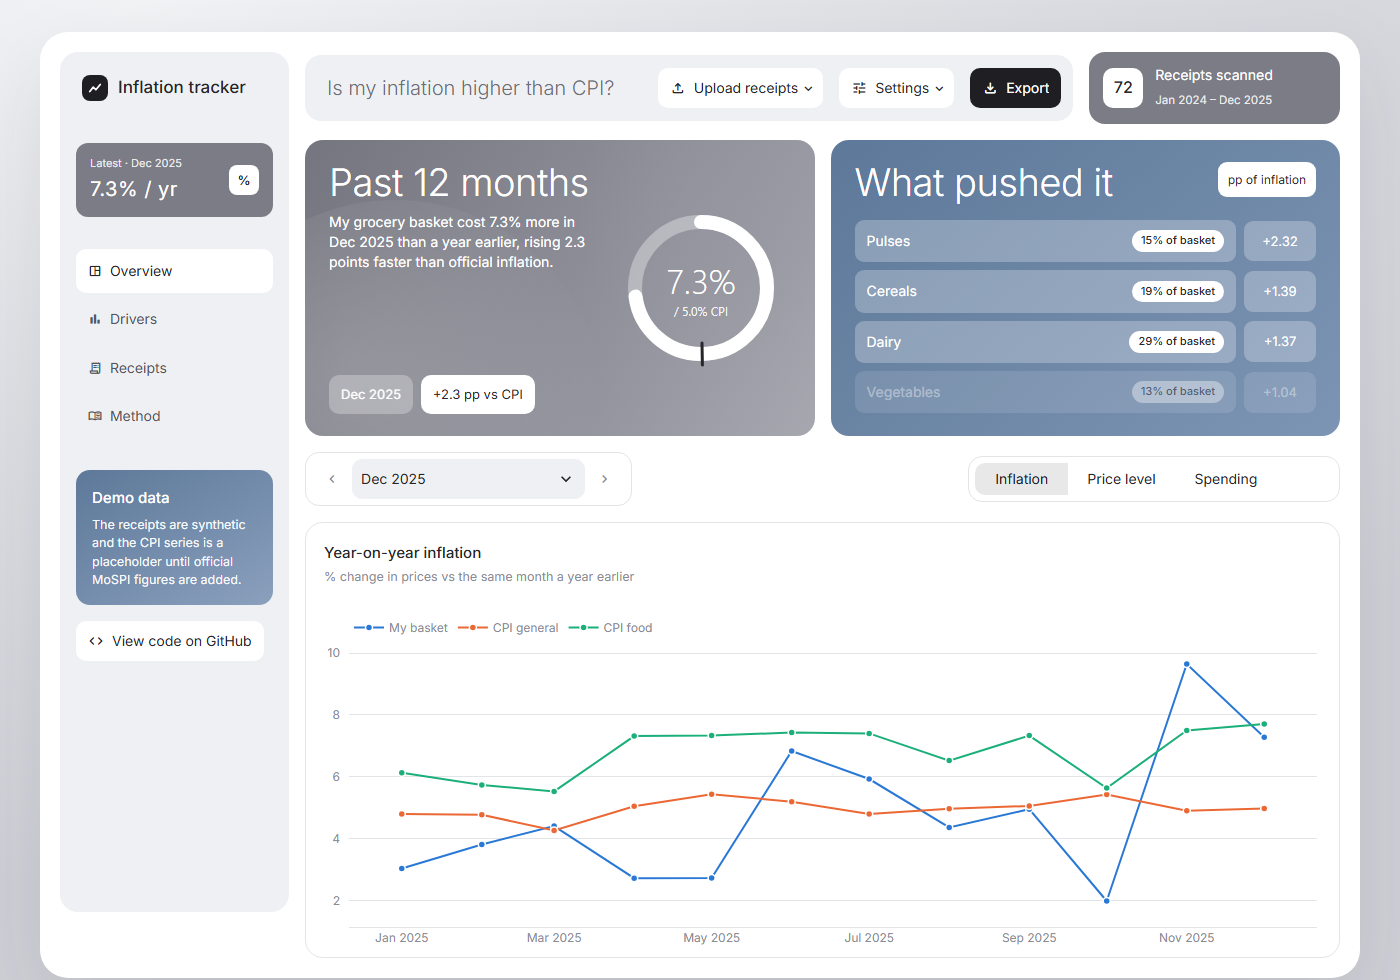
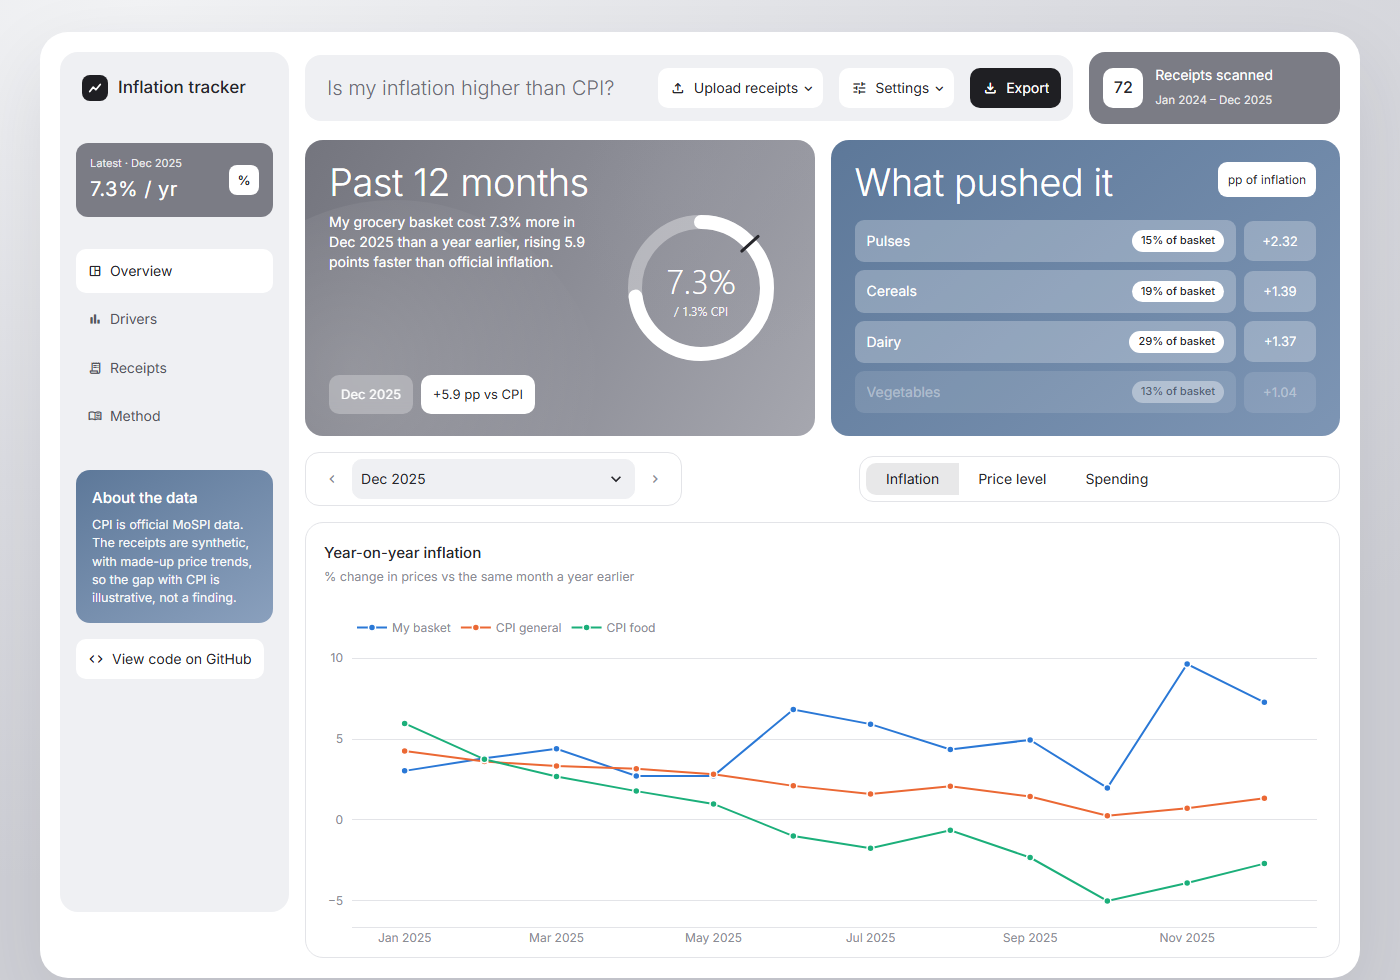
Use official MoSPI CPI data instead of placeholder
- data/cpi.csv: All-India CPI, Combined, base 2012=100, Jan 2024 to
  Dec 2025 (final), from the MoSPI API. cpi_food is the Consumer Food
  Price Index. YoY matches MoSPI's published inflation within 0.004 pp.
- App and README now state that the receipts are synthetic with made-up
  price trends, so the gap with CPI is illustrative, not a finding
- Regenerated charts and README screenshot

diff --git a/app.py b/app.py
@@ -167,8 +167,8 @@ with nav_col:
         page = st.radio("Pages", list(pages), key="page", label_visibility="collapsed",
                         format_func=lambda p: f"{pages[p]}&nbsp;&nbsp;{p}")
         with st.container(key="navnote", gap="small"):
-            st.html('<div class="note"><h4>Demo data</h4><p>The receipts are synthetic and the CPI series is a '
-                    'placeholder until official MoSPI figures are added.</p></div>')
+            st.html('<div class="note"><h4>About the data</h4><p>CPI is official MoSPI data. The receipts are '
+                    'synthetic, with made-up price trends, so the gap with CPI is illustrative, not a finding.</p></div>')
             st.link_button("View code on GitHub", REPO, icon=":material/code:")
 
 with main:
@@ -197,8 +197,9 @@ with main:
             with st.popover("Settings", icon=":material/tune:"):
                 st.slider("Base period (months)", 6, 12, 12, key="base_months",
                           help="Spending in these first months sets the basket weights.")
-                st.file_uploader("Official CPI file (month, cpi_general, cpi_food)", type="csv", key="cpi_file")
-                st.caption("Download real figures from cpi.mospi.gov.in")
+                st.file_uploader("Replace CPI file (month, cpi_general, cpi_food)", type="csv", key="cpi_file")
+                st.caption("Bundled: MoSPI All-India CPI, rural + urban combined, base 2012=100. "
+                           "CPI food is the Consumer Food Price Index.")
             st.download_button("Export", table.round(2).to_csv().encode(), "inflation_vs_cpi.csv",
                                icon=":material/download:", help="Download the results as CSV")
     with who:

diff --git a/README.md b/README.md
@@ -18,7 +18,7 @@ Scan grocery receipts with OCR, build a personal price index from what you actua
 
 **Tech:** Python · pandas · RapidOCR · Plotly · Streamlit
 
-> The demo uses synthetic receipts and a placeholder CPI series. See the *CPI data* section below.
+> CPI figures are official MoSPI data. The receipts are synthetic, with made-up price trends, so the gap between "my" inflation and CPI shows how the method works. It is not a real-world finding. See *Data* below.
 
 ## Pipeline
 
@@ -87,14 +87,20 @@ Notes:
 | OCR: item lines recovered | 97.8% |
 | OCR: unit price exactly right | 94.2% (98.8% on validated lines) |
 | Error in YoY inflation, OCR vs ground truth | mean 0.26 pp, max 0.51 pp |
-| My grocery inflation, Dec 2025 | 7.3% (CPI general 5.0%, CPI food 7.7%) |
+| Synthetic basket inflation, Dec 2025 | 7.3% (official CPI general 1.3%, CPI food -2.7%) |
 | Biggest driver | Pulses (+2.3 pp): toor dal is 10.5% of the basket and up ~12% |
 
 Because the receipts are synthetic, the "true" inflation is known, so you can measure how much error the OCR step adds to the final number. That makes a good point for your report.
 
-## ⚠ CPI data
+## Data
 
-`data/cpi.csv` is a **placeholder** generated so the project runs offline. It is not official data. Before you submit, replace it with real All-India CPI from MoSPI (https://cpi.mospi.gov.in), keeping the columns `month, cpi_general, cpi_food` (month as `YYYY-MM`). You can also upload the file in the dashboard sidebar.
+**CPI (`data/cpi.csv`) is official.** It holds All-India CPI, Combined (rural + urban), base 2012=100, for Jan 2024 to Dec 2025, all marked final, from the MoSPI API (`api.mospi.gov.in`, endpoint `/api/cpi/getCPIIndex`).
+- `cpi_general` is the General index.
+- `cpi_food` is the Consumer Food Price Index (CFPI), the series behind India's headline "food inflation".
+
+Year-on-year rates computed from these indices match MoSPI's published inflation to within 0.004 percentage points. India moved CPI to a new 2024=100 base in Feb 2026. The 2012 series is used here because it covers the whole 2024–2025 period.
+
+**The receipts are synthetic.** Each item's price trend is set by hand in `catalog.py` (for example, toor dal +12% a year). Real food prices actually fell in 2025, which is why the synthetic basket shows far higher inflation than CPI. To make the comparison meaningful, run the pipeline on real receipts, or calibrate the item trends to MoSPI's sub-group indices.
 
 ## Ideas to extend (and discuss in your viva)
 
@@ -106,6 +112,6 @@ Because the receipts are synthetic, the "true" inflation is known, so you can me
 
 ## Limitations
 
-- Dummy data: the results show the method works, not what real-world inflation was.
+- Synthetic receipts: the results show the method works, not what real-world inflation was.
 - Groceries only, while CPI also covers housing, fuel, health, education and more. That's why your number is closer to **CPI food** than to **CPI general**.
 - Parsing depends on one receipt layout. A different layout means changing `LINE_RE`.
